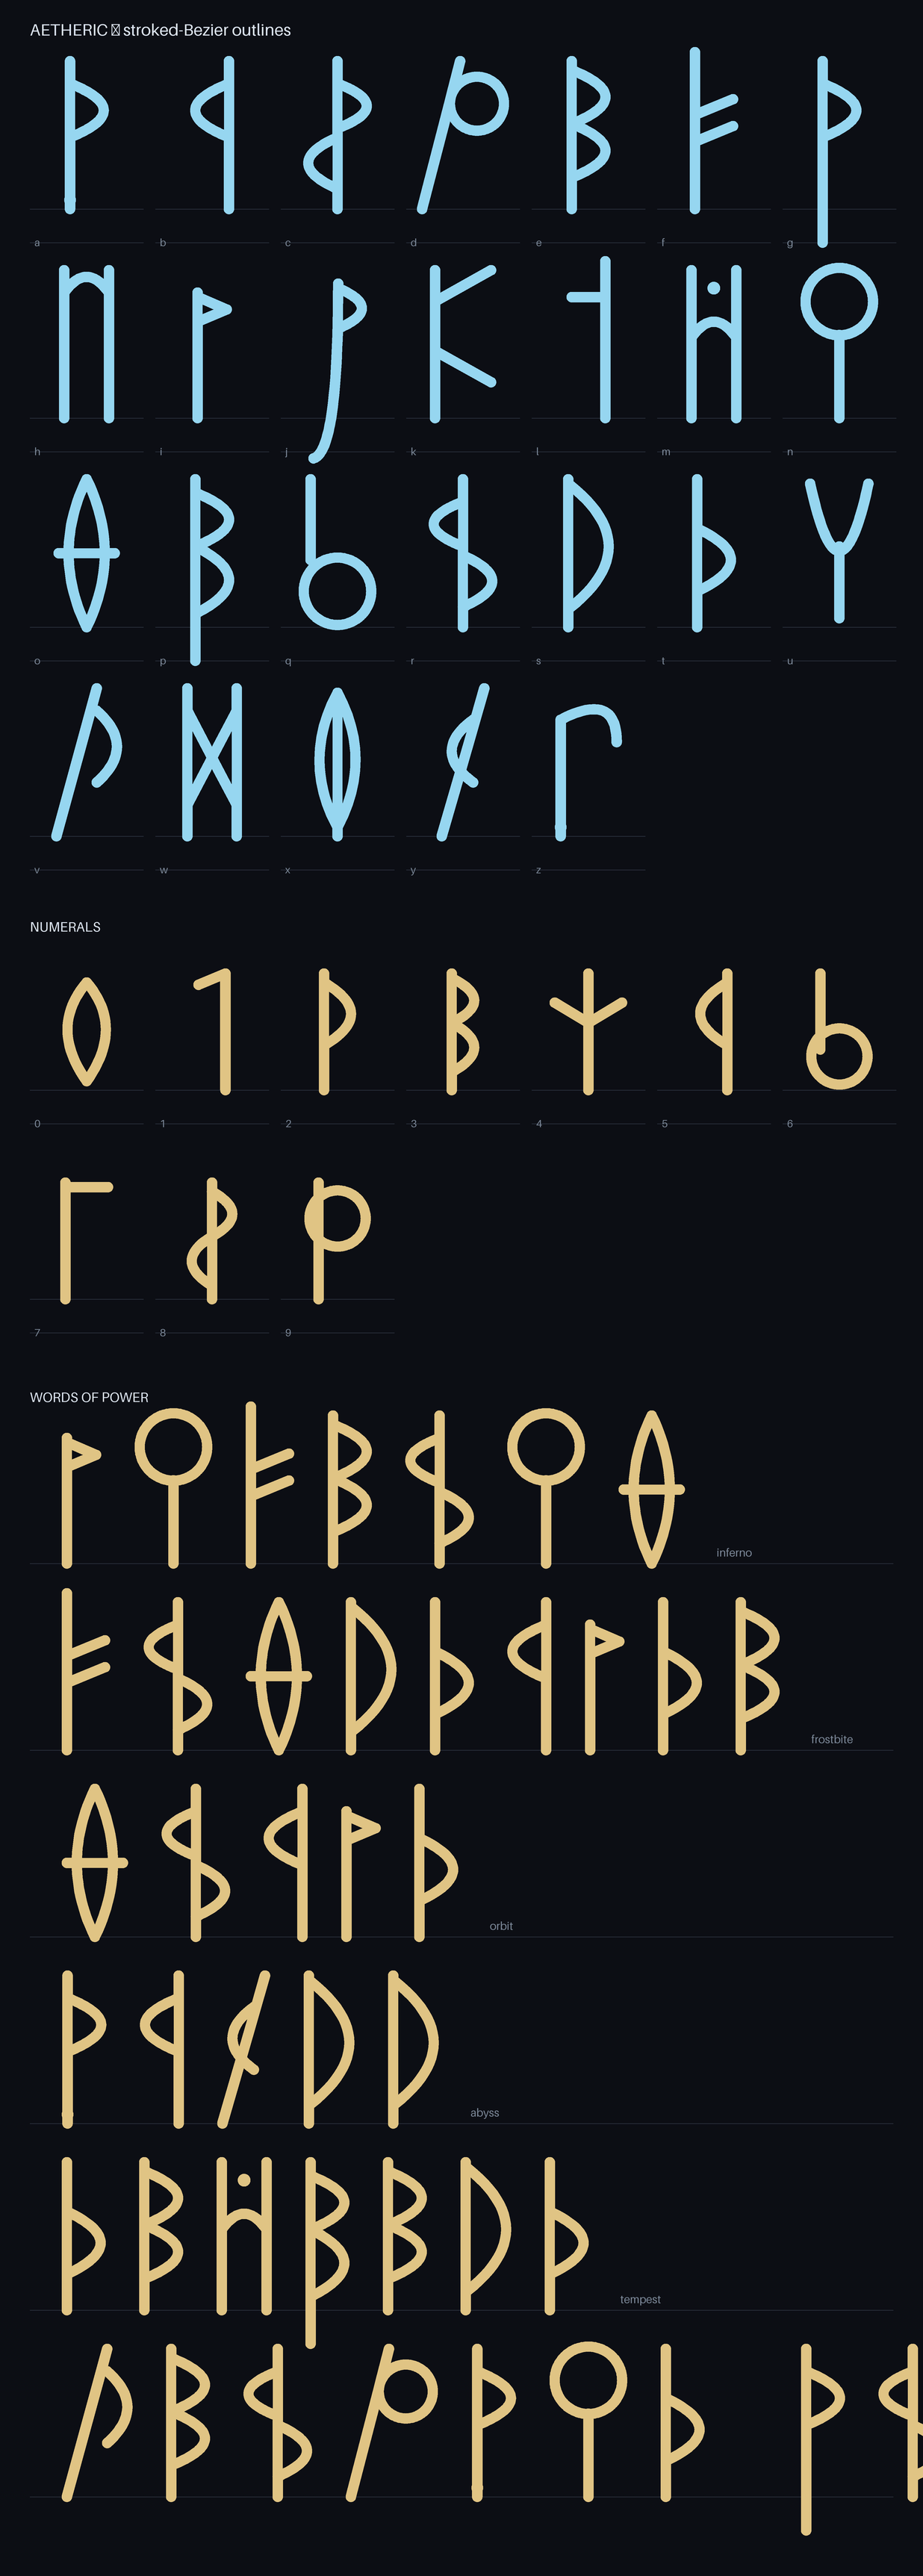
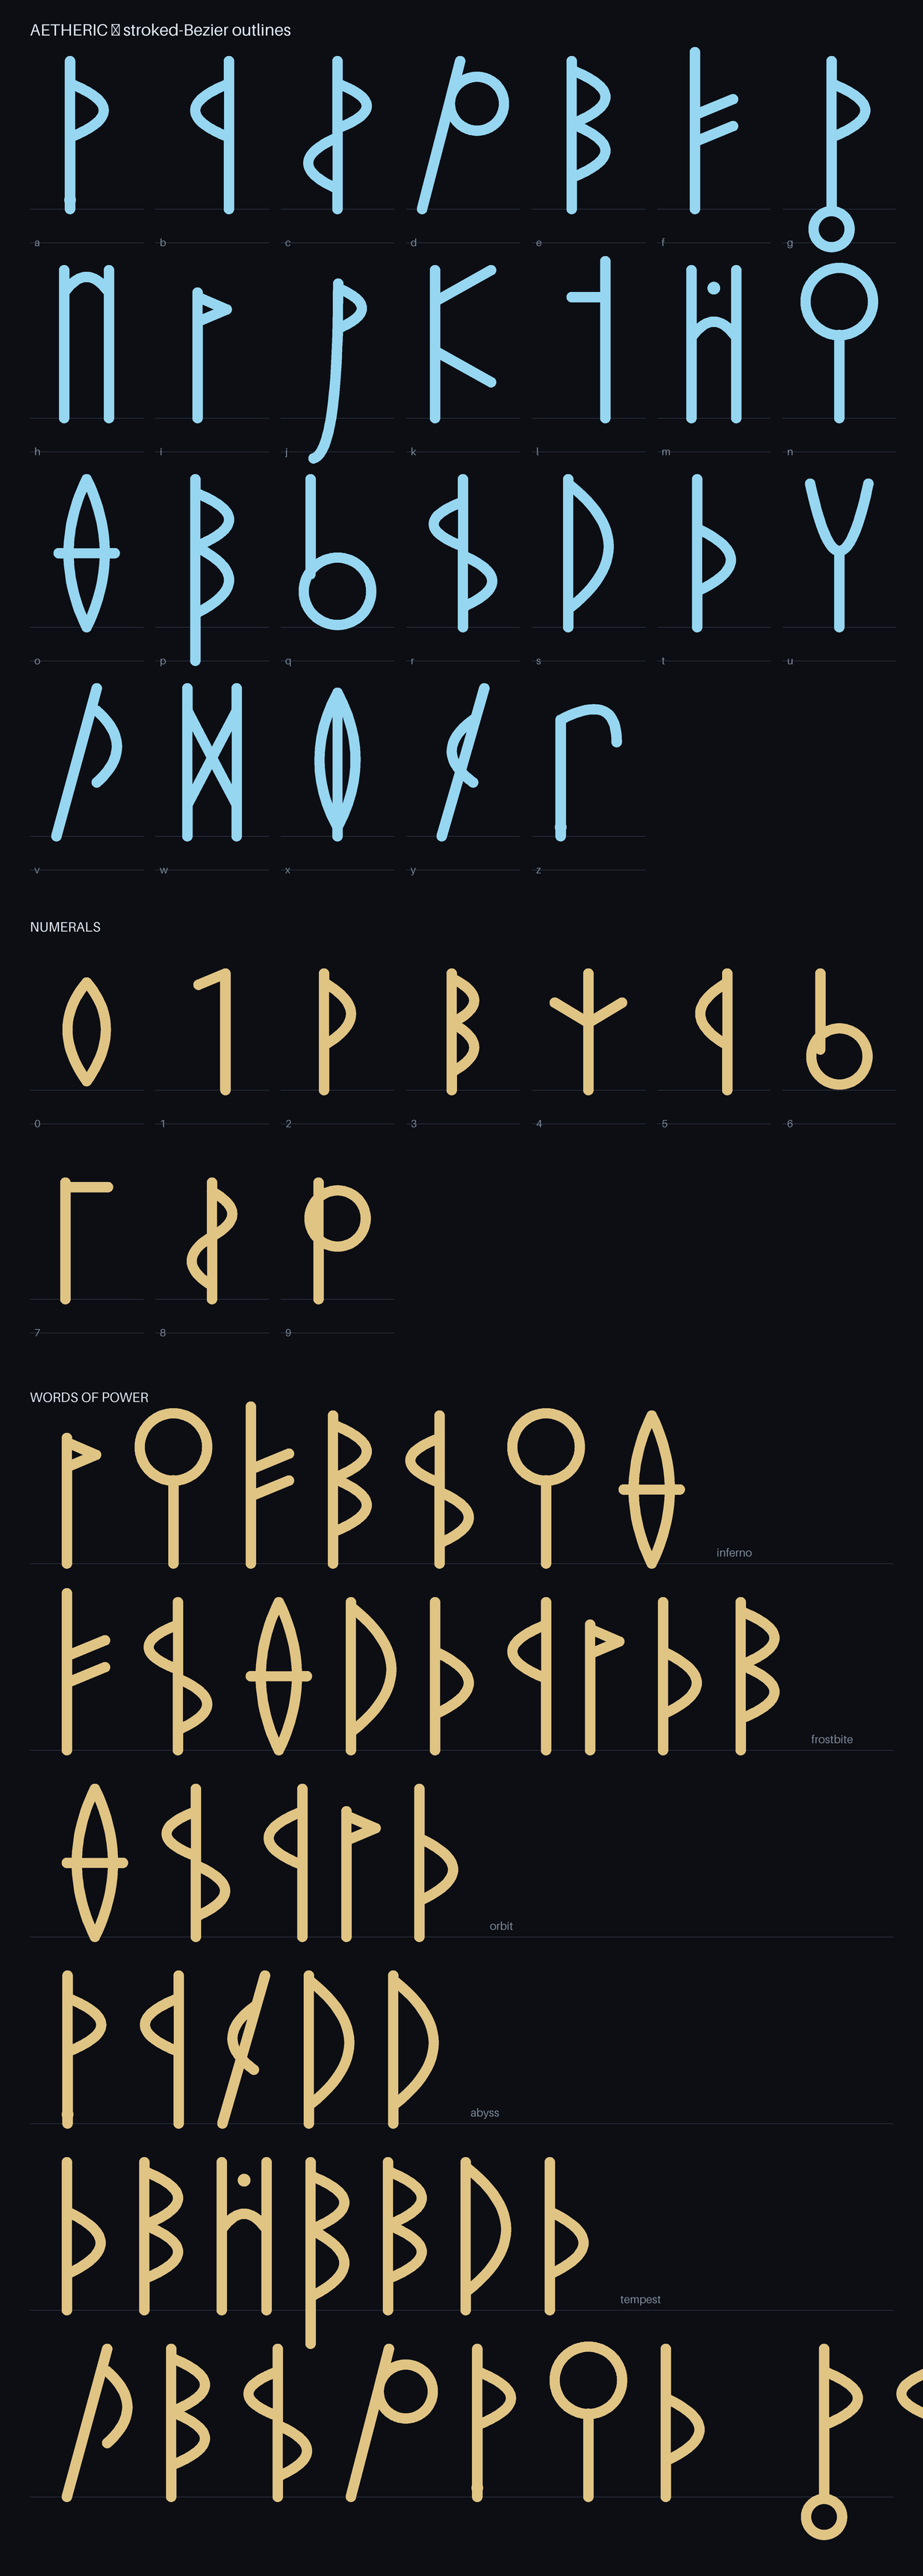
Polish u/q junctions; give g a looped tail to distinguish it from a
Review nitpicks on the stroked-outline glyphs:
- u: drop the center stem-top below the cup's inner surface so its round cap no
  longer pokes up into the cradle; run it to the baseline.
- q: extend the stem down into the loop wall so it connects instead of leaving a
  gap above the ring.
- g: a and g were near-identical (both stem + upper-right bowl, differing only by
  a foot dot vs a descender). Give g a looped descender tail so the two read as
  clearly different glyphs; a keeps the thorn + foot dot.

Claude-Session: https://claude.ai/code/session_01N6YXuczgoVKAVnC856Pj4F

Changed region(s): [[0.8608, 0.0, 0.9531, 0.1241], [0.8608, 0.8994, 0.9223, 0.9925], [0.9531, 0.8994, 1.0, 0.9925]]

diff --git a/UI/scripts/conlang/generate_font.py b/UI/scripts/conlang/generate_font.py
@@ -117,13 +117,13 @@ def alphabet():
     # bowls / cradles that sit on the baseline
     a['o'] = glyph([qb((SX, 0), (20, 330), (SX, 660)), qb((SX, 660), (340, 330), (SX, 0)),
                     ln((55, 330), (305, 330))])                            # almond + crossbar
-    a['u'] = glyph([qb((120, 640), (250, 40), (380, 640)), ln((250, 360), (250, 40))])
-    a['q'] = glyph([stem(SX, 300, 660), ring(300, 160, 150)])
+    a['u'] = glyph([qb((120, 640), (250, 40), (380, 640)), ln((250, 335), (250, 0))])
+    a['q'] = glyph([stem(SX, 235, 660), ring(300, 160, 150)])
     # short forms
     a['i'] = glyph([stem(SX, 0, 560), twig(SX, 540, 130, -55), twig(SX, 430, 130, 55)])  # short stem + chevron
     a['l'] = glyph([stem(230, 0, 700), twig(230, 540, -150, 0)])
     # the deliberate descenders
-    a['g'] = glyph([stem(SX, DDEPTH, 660), bow(560, 320, 300)])
+    a['g'] = glyph([stem(SX, -8, 660), bow(560, 320, 300), ring(SX, -90, 80)])  # bowl + looped tail
     a['j'] = glyph([qb((SX, 600), (SX, DDEPTH), (70, DDEPTH - 30)), bow(580, 400, 210)])  # hooked cane + bow
     a['p'] = glyph([stem(SX, DDEPTH, 660), bow(600, 360, 300), bow(360, 60, 300)])
     return a